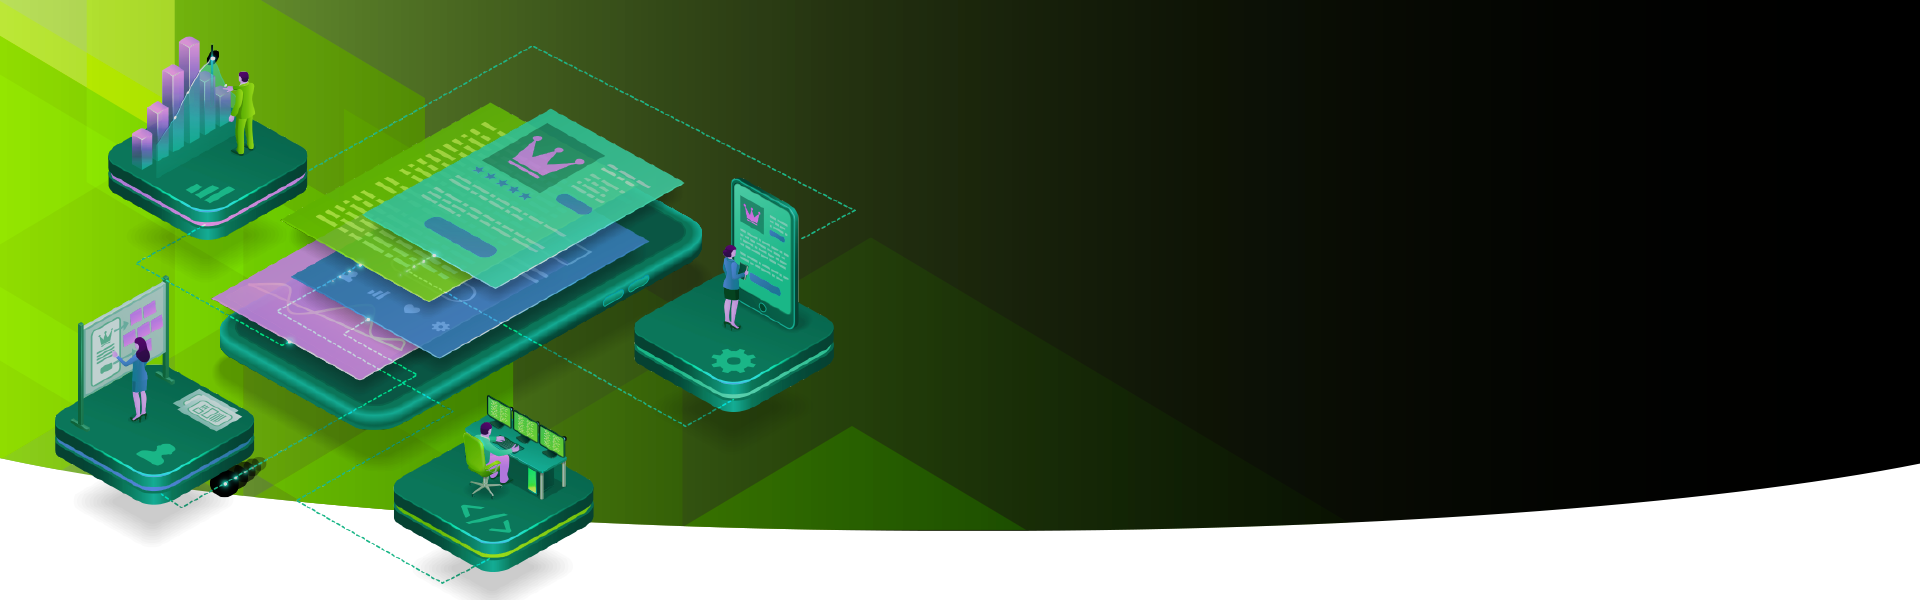
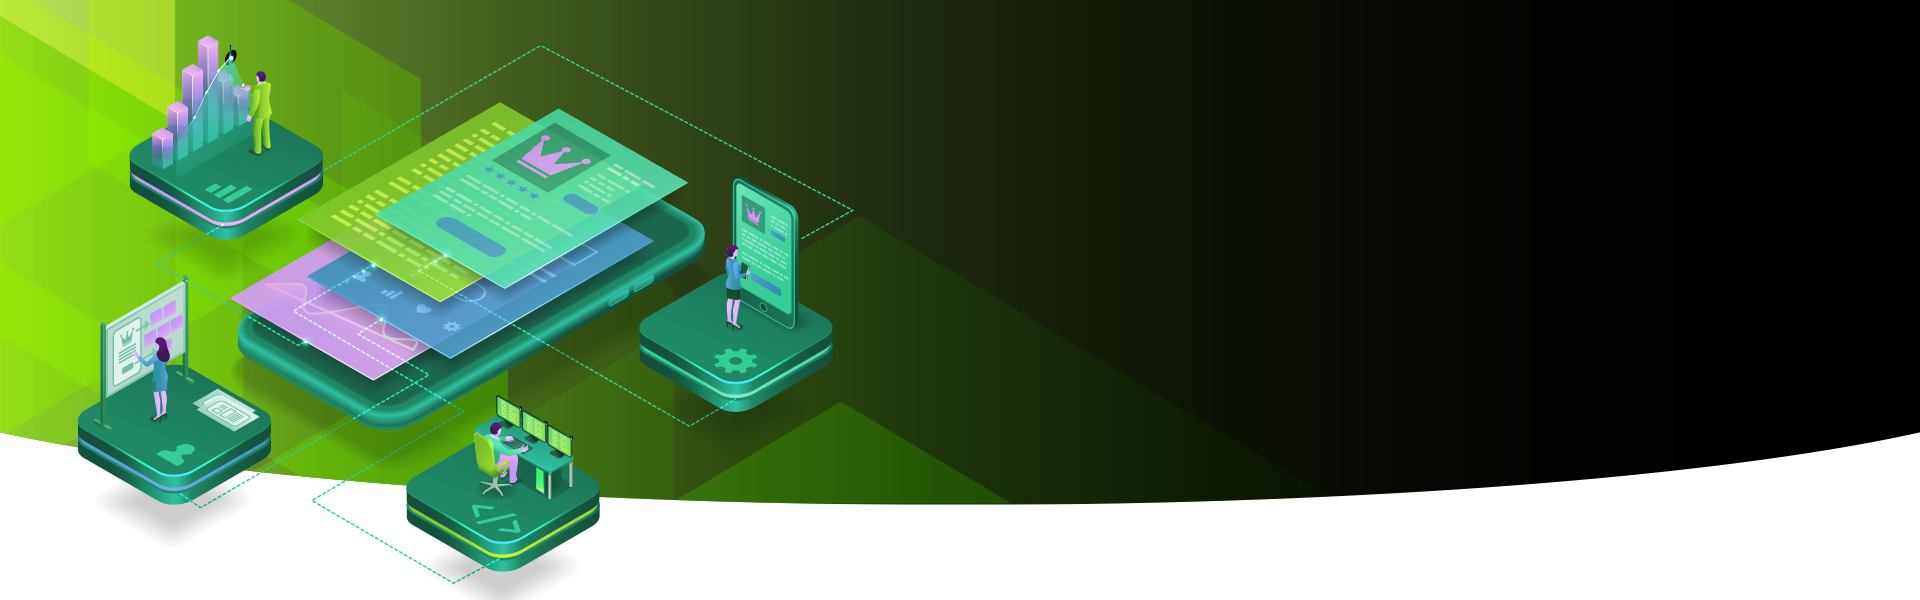
New images

diff --git a/src/components/Navbar/index.scss b/src/components/Navbar/index.scss
@@ -1,5 +1,5 @@
 .navbar-header {
-  background-image: url("../../static/images/bannner-principal.jpg");
+  background-image: url("../../static/images/banner-principal.png");
   background-size: cover;
   height: 800px;
 
